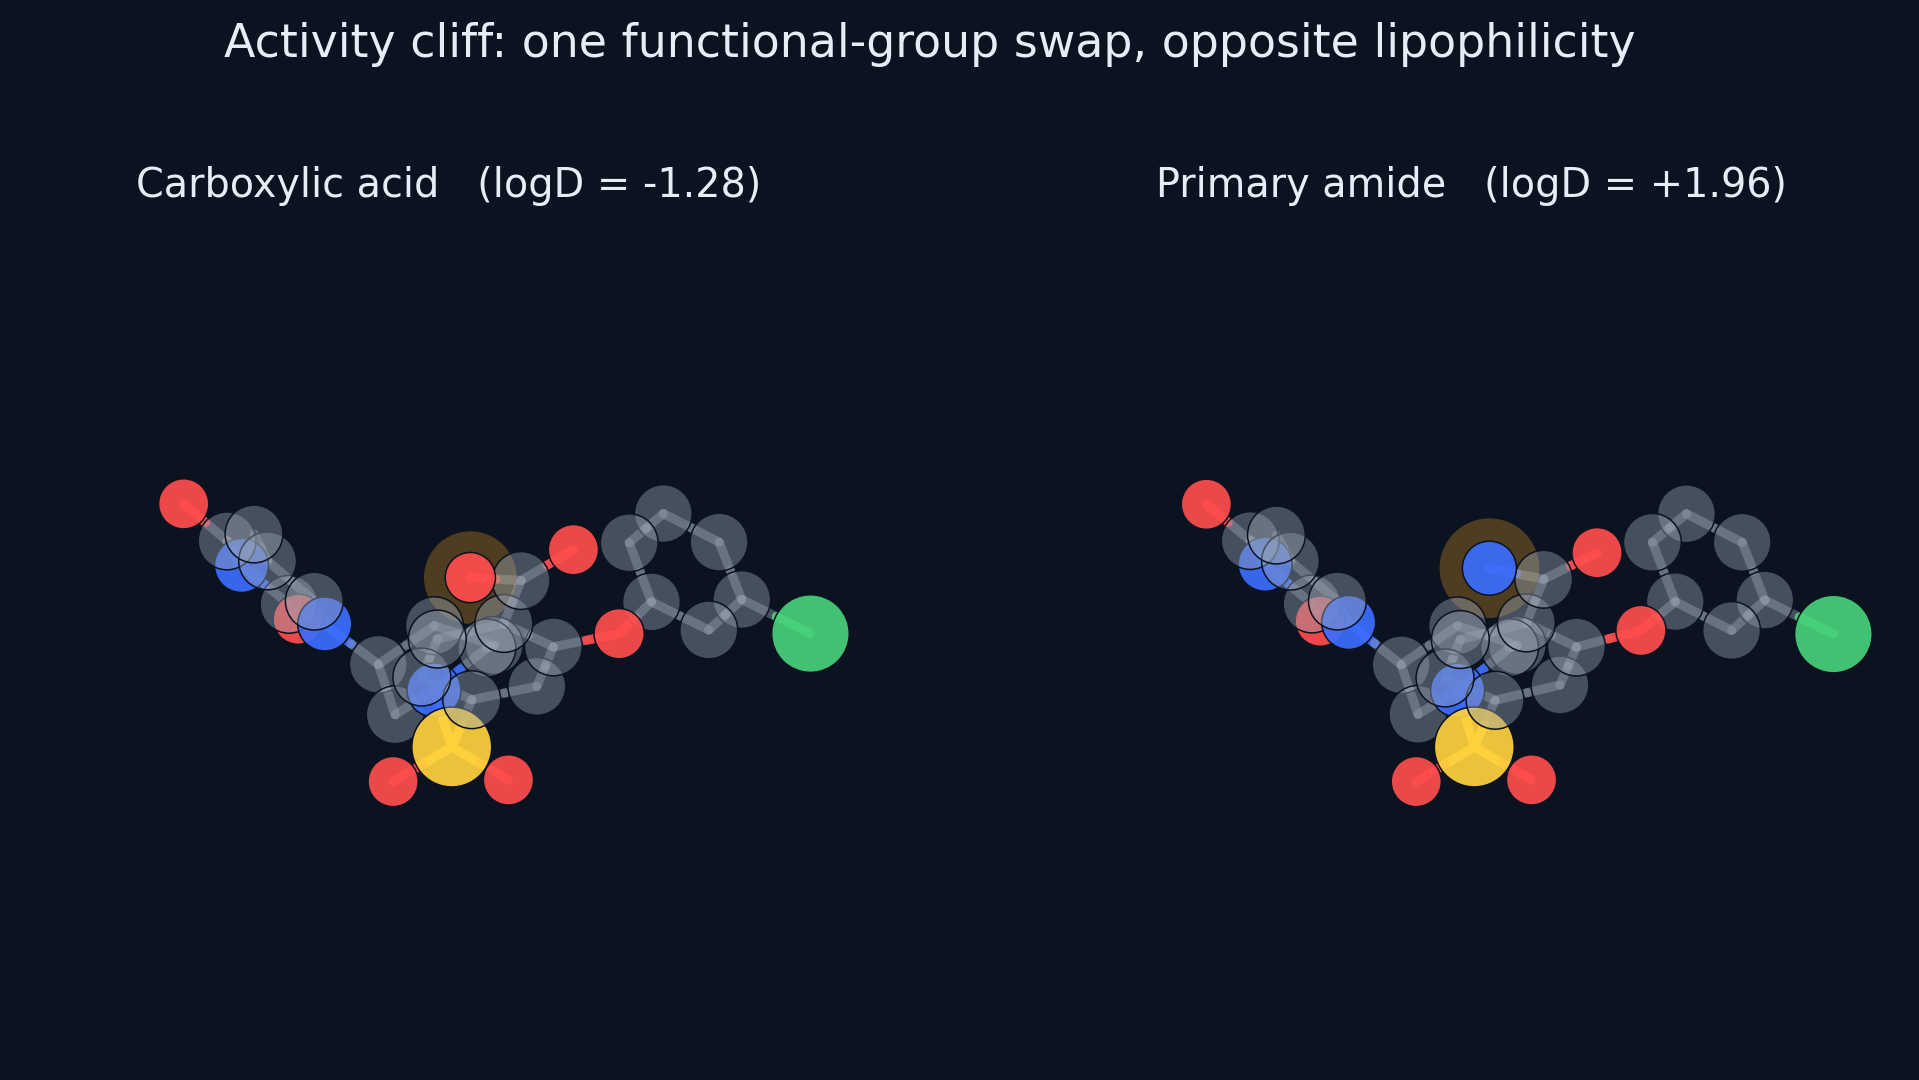
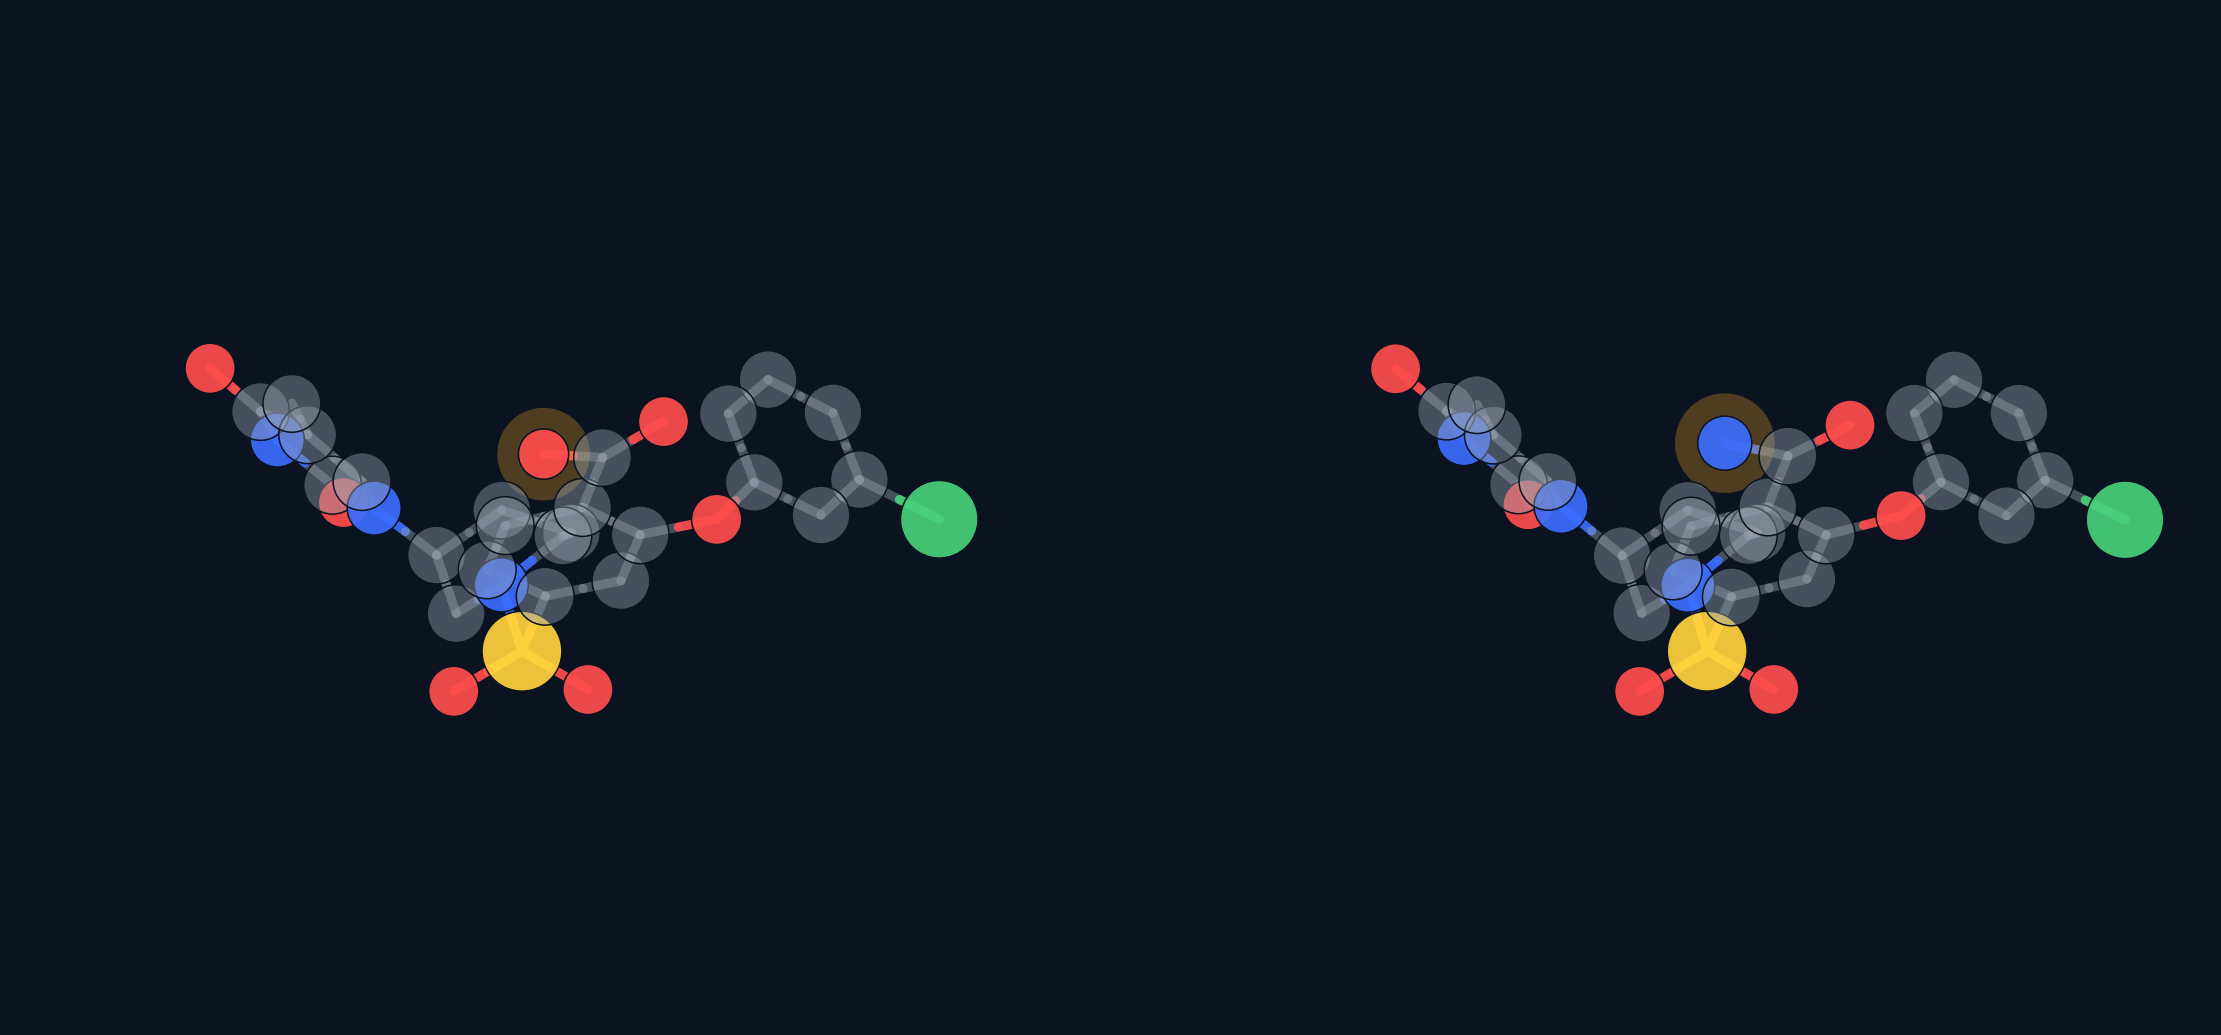
index: title-less activity-cliff figure; de-dash and rephrase caption

diff --git a/index.html b/index.html
@@ -1103,7 +1103,7 @@
         <figure style="margin:18px 0 0;padding:18px;background:rgba(22,27,34,0.82);border:1px solid var(--border);border-radius:12px;">
           <img src="assets/molecules/cliff_pair_3d_comparison.png" loading="lazy" alt="Two drug-like molecules rendered in an identical 3D scaffold pose. They differ by a single highlighted functional group: a carboxylic acid on the left and a primary amide on the right." style="width:100%;height:auto;border-radius:8px;display:block;" />
           <figcaption style="margin-top:12px;font-size:12.5px;color:var(--text-secondary);line-height:1.6;">
-            <strong style="color:var(--text-primary);">One atom flips the molecule&rsquo;s behavior.</strong> These two compounds share an identical scaffold and differ by a single functional-group swap &mdash; a carboxylic acid (&ndash;COOH, left) exchanged for a primary amide (&ndash;CONH<sub>2</sub>, right; highlighted). That lone change moves measured lipophilicity from <code style="font-family:var(--font-mono);color:var(--accent-green);">logD &minus;1.28</code> to <code style="font-family:var(--font-mono);color:var(--accent-purple);">+1.96</code>. Near-identical structure, opposite ADMET profile: this is an <em>activity cliff</em> &mdash; and Preprint&nbsp;1 surfaces <strong style="color:var(--text-primary);">1,398</strong> of them to pinpoint exactly where property models are most likely to be wrong.
+            <strong style="color:var(--text-primary);">One atom flips the molecule&rsquo;s behavior.</strong> These two compounds share an identical scaffold and differ by a single functional-group swap: a carboxylic acid (COOH, left) exchanged for a primary amide (CONH<sub>2</sub>, right; highlighted). That lone change moves measured lipophilicity from <code style="font-family:var(--font-mono);color:var(--accent-green);">logD &minus;1.28</code> to <code style="font-family:var(--font-mono);color:var(--accent-purple);">+1.96</code>. Near-identical structure, opposite ADMET profile. This is an <em>activity cliff</em>, and Preprint&nbsp;1 catalogs <strong style="color:var(--text-primary);">1,398</strong> of them to map the structural boundaries where property models lose reliability.
           </figcaption>
         </figure>
         <p style="margin-top:14px;font-size:11.5px;color:var(--text-secondary);line-height:1.6;">Both results regenerate from a tagged commit on CPU over public libraries. See <a href="pages/limitations.html" style="color:var(--accent-blue);">limitations</a>.</p>
